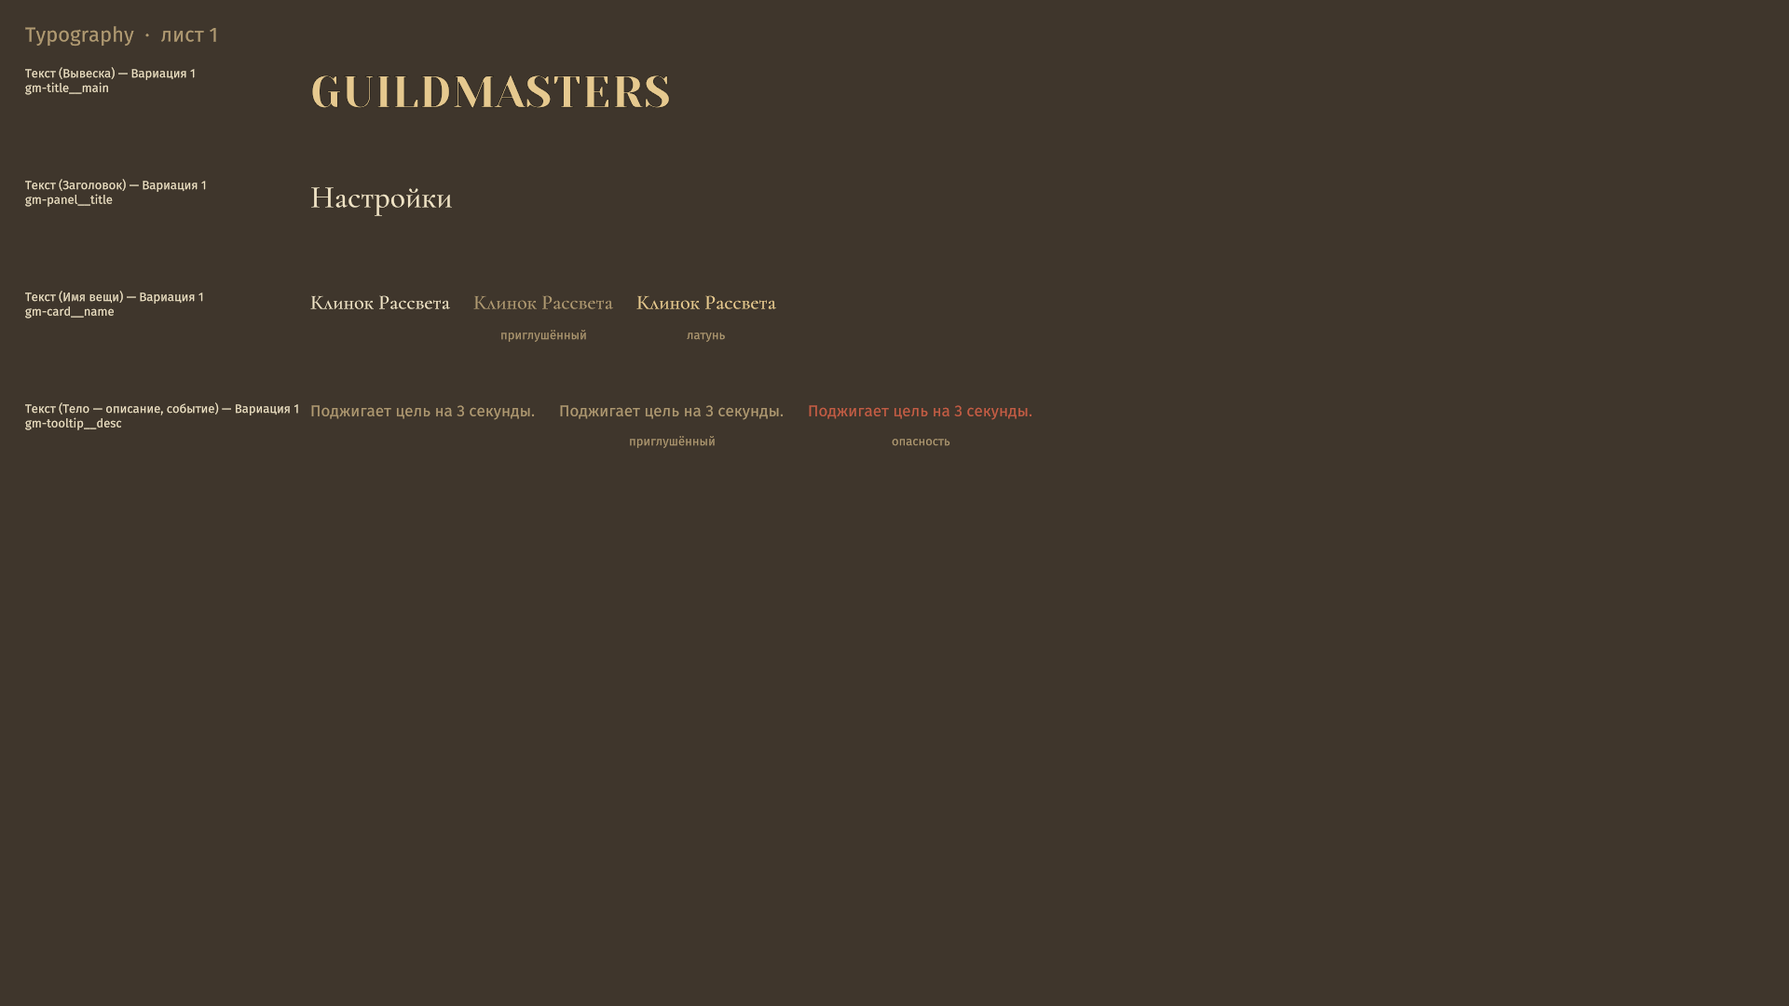
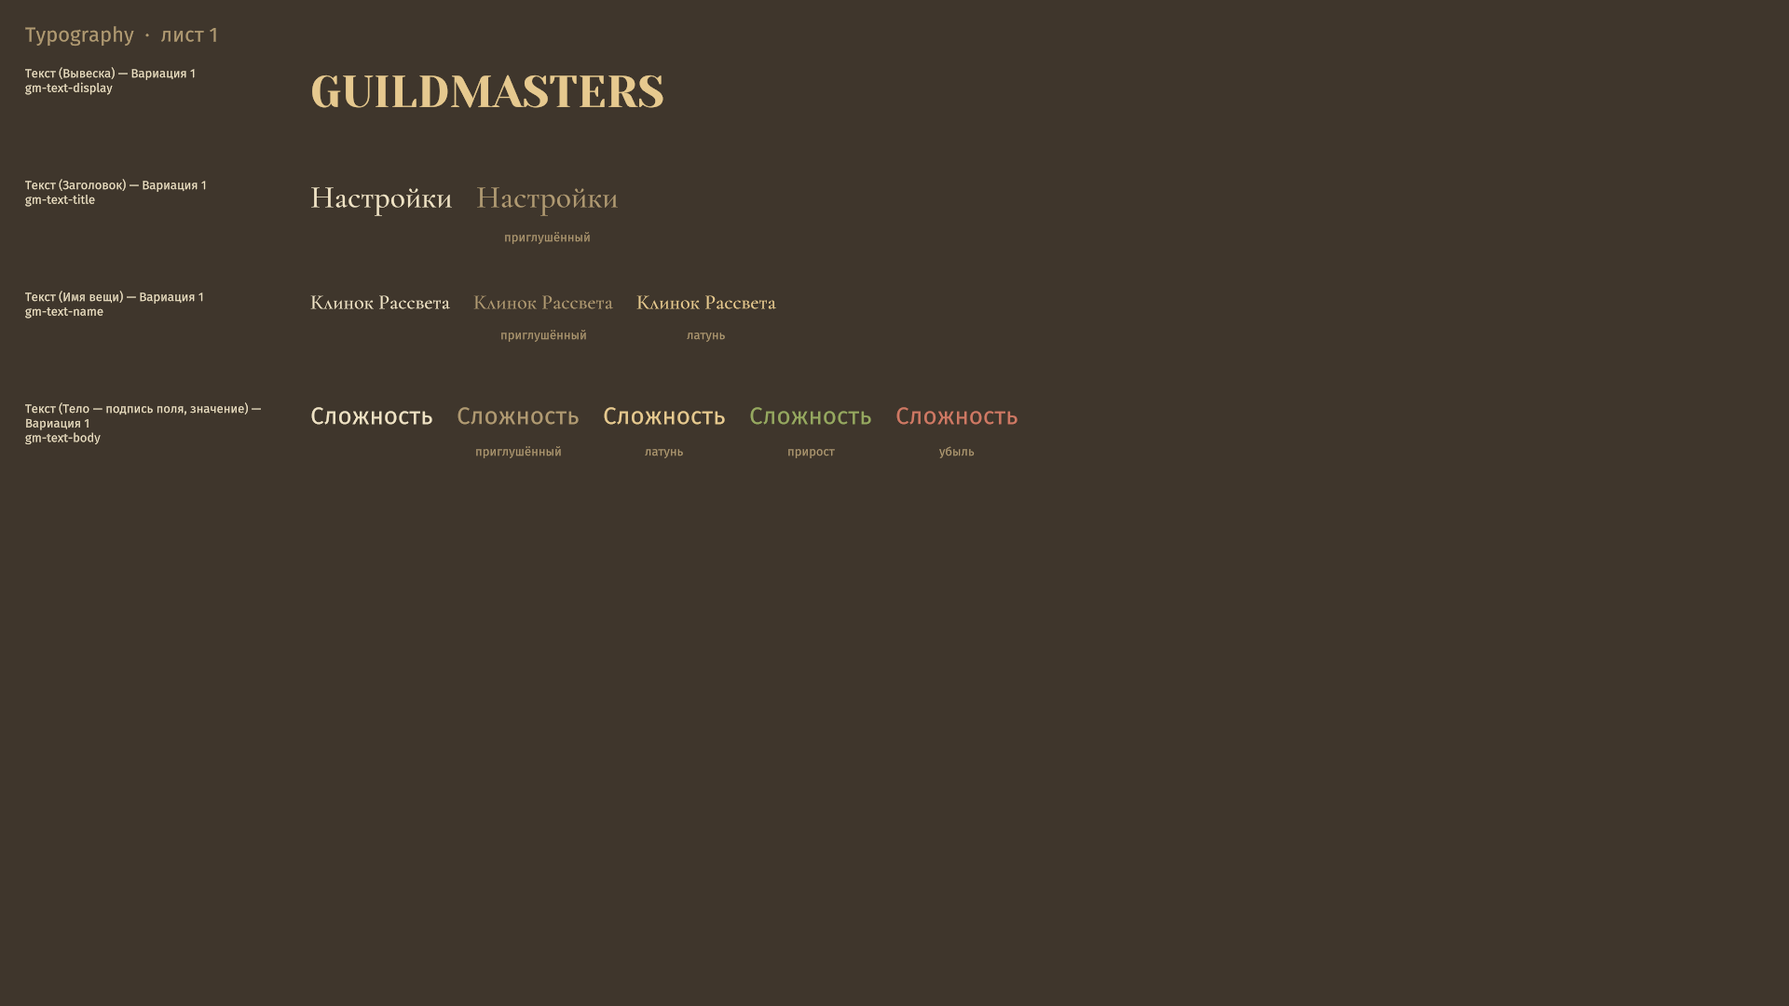
refactor(ui): text roles become classes of their own, not one resident per role
Восемь ролей текста объявлены классами gm-text-*: display, title, name,
body, caption, note, label, code. Прежде реестр держал по одному ЖИТЕЛЮ на
роль (gm-card__name, gm-tooltip__desc, gm-stat__value), и витрина показывала
«такой текст бывает в подсказке» вместо «вот роль, бери её куда надо» — та же
подмена, что была у кнопок с «пунктом главного меню».

Перепись дерева: типографику задают 75 классов, и пять пар «кегль + цвет»
покрывают 42 из них (body+text — 11, sm+muted — 10, xxs+muted — 10,
sm+text — 6, xs+muted — 5).

Роль несёт гарнитуру и кегль, но НЕ цвет: у мелких ролей бывают оба варианта
(gm-tooltip__meta тихая, gm-tooltip__line-value нет — при одном кегле), и
забери роль цвет себе, для яркого пришлось бы заводить метку «обычный».

Переведены компоненты: строки настроек, карточки, чипы, подсказки, статблок.
Из тринадцати кадров контактного листа изменились только два по делу —
остальные попиксельно те же.

Лестница кеглей: .gm-button--display держал 34px литералом, а это ровно
--gm-font-title; заменено без сдвига. 44px у вкладки — единственное число мимо
ступеней, оставлено намеренно и помечено в комментарии.

diff --git a/Assets/_Project/Scripts/UI/Components/UiComponentRegistry.cs b/Assets/_Project/Scripts/UI/Components/UiComponentRegistry.cs
@@ -294,26 +294,25 @@ namespace Guildmaster.UI.Components
             // МЕТКИ — ВТОРАЯ ОСЬ (решение Макса 06.08.2026). Красный текст, приглушённый, латунный
             // не являются отдельными ролями: они кладутся поверх роли вторым классом и меняют
             // только цвет. У каждой роли перечислены ЖИВЫЕ метки — те, что в игре встречаются.
-            New("Текст (Вывеска) — Вариация 1", "gm-title__main", UiComponentGroup.Typography,
-                UiElementState.None, null),
-            New("Текст (Заголовок) — Вариация 1", "gm-panel__title", UiComponentGroup.Typography,
-                UiElementState.None, null),
-            NewText("Текст (Имя вещи) — Вариация 1", "gm-card__name",
+            // РОЛЬ — ЭТО КЛАСС gm-text-*, а не её представитель на каком-то экране. До 06.08.2026
+            // здесь стояли gm-card__name, gm-tooltip__desc, gm-stat__value — то есть по одному
+            // ЖИТЕЛЮ на роль, и витрина показывала «вот такой текст бывает в подсказке» вместо
+            // «вот роль, бери её куда надо». Ровно та же подмена, что была у кнопок с «пунктом
+            // главного меню». Перепись дерева показала, что пять пар «кегль + цвет» покрывают 42
+            // класса из 75 — роли существовали, но были расписаны под каждый экран заново.
+            NewText("Текст (Вывеска) — Вариация 1", "gm-text-display", UiTextTone.None),
+            NewText("Текст (Заголовок) — Вариация 1", "gm-text-title", UiTextTone.Muted),
+            NewText("Текст (Имя вещи) — Вариация 1", "gm-text-name",
                 UiTextTone.Muted | UiTextTone.Brass),
-            NewText("Текст (Тело — описание, событие) — Вариация 1", "gm-tooltip__desc",
+            NewText("Текст (Тело — подпись поля, значение) — Вариация 1", "gm-text-body",
+                UiTextTone.Muted | UiTextTone.Brass | UiTextTone.Positive | UiTextTone.Negative),
+            NewText("Текст (Подпись — пояснение под полем) — Вариация 1", "gm-text-caption",
+                UiTextTone.Muted),
+            NewText("Текст (Описание — способность, событие) — Вариация 1", "gm-text-note",
                 UiTextTone.Muted | UiTextTone.Danger),
-            NewText("Текст (Подпись действия) — Вариация 1", "gm-plate-button__label",
-                UiTextTone.Muted | UiTextTone.Danger),
-            NewText("Текст (Число) — Вариация 1", "gm-stat__value",
-                UiTextTone.Brass | UiTextTone.Negative | UiTextTone.Positive),
-            // Роль «подпись» уже приглушена собственным цветом, поэтому метки Muted у неё нет:
-            // она бы ничего не изменила. Звалась gm-text-muted — имя описывало цвет, тогда как
-            // класс задаёт и кегль; переименована 06.08.2026, чтобы не стоять в одном дереве с
-            // меткой gm-text--muted через один дефис.
-            New("Текст (Подпись) — Вариация 1", "gm-text-caption", UiComponentGroup.Typography,
-                UiElementState.None, null),
-            New("Текст (Код, дев) — Вариация 1", "gm-console__keys", UiComponentGroup.Typography,
-                UiElementState.None, null),
+            NewText("Текст (Метка — мета, счётчик) — Вариация 1", "gm-text-label",
+                UiTextTone.Muted | UiTextTone.Brass),
+            NewText("Текст (Код, дев) — Вариация 1", "gm-text-code", UiTextTone.None),
 
             // СЛОВАРЬ ПОДСКАЗКИ — третья сущность рядом с ролью и меткой: цвет здесь кодирует
             // КАТЕГОРИЮ ПОНЯТИЯ, а не назначение текста и не его состояние. Шесть категорий на

diff --git a/Assets/_Project/Scripts/DevTools/UiSampleFactory.cs b/Assets/_Project/Scripts/DevTools/UiSampleFactory.cs
@@ -99,24 +99,20 @@ namespace Guildmaster.DevTools
             // почему и в игре. Написать здесь капс руками значило бы снова завести второго владельца
             // регистра — и витрина перестала бы ловить его пропажу.
             // Кириллица — везде, где она бывает в игре: гарнитуру она показывает честнее латиницы.
-            ["gm-title__main"]         = () => Text("GUILDMASTERS"),
-            ["gm-panel__title"]        = () => Text("Настройки"),
-            ["gm-card__name"]          = () => Text("Клинок Рассвета"),
+            // Образцы РОЛЕЙ. Каждый — просто строка с классом роли: роль на то и роль, что несёт
+            // весь свой вид сама и не зависит от предка. Прежние образцы брали представителей
+            // (gm-tooltip__desc и подобных), и часть из них приходилось собирать вместе с
+            // родителем, потому что кегль задавала кнопка, а гарнитуру — консоль.
+            ["gm-text-display"] = () => Text("GUILDMASTERS"),
+            ["gm-text-title"]   = () => Text("Настройки"),
+            ["gm-text-name"]    = () => Text("Клинок Рассвета"),
+            ["gm-text-body"]    = () => Text("Сложность"),
+            ["gm-text-caption"] = () => Text("Дом хранит прогресс забега"),
             // Коротко намеренно: с метками у роли до шести ячеек в ряду, и длинная фраза разносила
             // ряд на две строки — на кадре это читалось поломкой листа, а не образцом.
-            ["gm-tooltip__desc"]       = () => Text("Поджигает цель на 3 секунды."),
-            // ПОДПИСЬ ДЕЙСТВИЯ — НАСТОЯЩАЯ КНОПКА, а не строка в контейнере с классом `.gm-button`.
-            // Контейнер работал, пока роль отличалась кеглем и цветом, и сломался на регистре:
-            // custom-свойства USS в UI Toolkit, в отличие от CSS, ПО НАСЛЕДСТВУ НЕ ПЕРЕДАЮТСЯ, а
-            // применяет `--gm-text-case` сам PlateButton к своей подписи. Образец без контрола
-            // показывал «Начать забег» строчными там, где игра произносит прописными.
-            ["gm-plate-button__label"] = () => PlateBtn(),
-            // Код набирается В СВОЁМ КОНТЕКСТЕ: моноширинную гарнитуру консоли задаёт правило
-            // `.gm-console .unity-text-element`, то есть ПРЕДОК. Без обёртки образец показывал
-            // FiraSans вместо Fira Mono — враньё, которое поймал замер, а не глаз.
-            ["gm-stat__value"]         = () => Text("128"),
-            ["gm-text-caption"]        = () => Text("Дом хранит прогресс забега"),
-            ["gm-console__keys"]       = () => Within("gm-console", "gm-console__keys", "gm.spawn(\"goblin\", 3)"),
+            ["gm-text-note"]    = () => Text("Поджигает цель на 3 секунды."),
+            ["gm-text-label"]   = () => Text("урон в секунду"),
+            ["gm-text-code"]    = () => Text("gm.spawn(\"goblin\", 3)"),
             // Словарь: шесть категорий одной строкой — так видно, различимы ли они между собой.
             // Цвет живёт на модификаторе, поэтому образец блока показывает сразу все варианты.
             ["gm-kw"]                  = () => Keywords(),

diff --git a/Assets/_Project/Scripts/UI/Components/TooltipCard.cs b/Assets/_Project/Scripts/UI/Components/TooltipCard.cs
@@ -41,8 +41,11 @@ namespace Guildmaster.UI.Components
             _header = new VisualElement { pickingMode = PickingMode.Ignore };
             _header.AddToClassList("gm-tooltip__header");
             _title = new Label { pickingMode = PickingMode.Ignore };
+            _title.AddToClassList("gm-text-name");
             _title.AddToClassList("gm-tooltip__title");
             _meta = new Label { pickingMode = PickingMode.Ignore };
+            _meta.AddToClassList("gm-text-label");
+            _meta.AddToClassList("gm-text--muted");
             _meta.AddToClassList("gm-tooltip__meta");
             _header.Add(_title);
             _header.Add(_meta);
@@ -62,6 +65,8 @@ namespace Guildmaster.UI.Components
             Add(_lines);
 
             _desc = Line("gm-tooltip__desc");
+            _desc.AddToClassList("gm-text-note");
+            _desc.AddToClassList("gm-text--muted");
             _desc.style.whiteSpace = WhiteSpace.Normal;
             _desc.enableRichText = true; // разметка терминов: [Скрытность] со ссылкой
 
@@ -96,8 +101,10 @@ namespace Guildmaster.UI.Components
             row.AddToClassList("gm-tooltip__line");
 
             var caption = new Label(label ?? string.Empty) { pickingMode = PickingMode.Ignore };
-            caption.AddToClassList("gm-tooltip__line-label");
+            caption.AddToClassList("gm-text-label");
+            caption.AddToClassList("gm-text--muted");
             var amount = new Label(value ?? string.Empty) { pickingMode = PickingMode.Ignore };
+            amount.AddToClassList("gm-text-note");
             amount.AddToClassList("gm-tooltip__line-value");
 
             row.Add(caption);
@@ -119,7 +126,8 @@ namespace Guildmaster.UI.Components
             var name = new Label(term ?? string.Empty) { pickingMode = PickingMode.Ignore };
             name.AddToClassList("gm-tooltip__glossary-term");
             var text = new Label(definition ?? string.Empty) { pickingMode = PickingMode.Ignore };
-            text.AddToClassList("gm-tooltip__glossary-text");
+            text.AddToClassList("gm-text-label");
+            text.AddToClassList("gm-text--muted");
             text.style.whiteSpace = WhiteSpace.Normal;
 
             row.Add(name);

diff --git a/Assets/_Project/Scripts/UI/LoadoutInventoryView.cs b/Assets/_Project/Scripts/UI/LoadoutInventoryView.cs
@@ -513,9 +513,14 @@ namespace Guildmaster.UI
         {
             var cell = new VisualElement { focusable = true };
             cell.AddToClassList("gm-stat");
+            // Подпись — роль «метка» приглушённой меткой. Свой класс ей всё же нужен, и не ради
+            // вида: `.gm-stat:disabled .gm-stat__label` адресует её в выключенном состоянии строки.
             var l = new Label(label) { pickingMode = PickingMode.Ignore };
+            l.AddToClassList("gm-text-label");
+            l.AddToClassList("gm-text--muted");
             l.AddToClassList("gm-stat__label");
             var v = new Label(value) { pickingMode = PickingMode.Ignore };
+            v.AddToClassList("gm-text-note");
             v.AddToClassList("gm-stat__value");
             cell.Add(l);
             cell.Add(v);

diff --git a/Assets/_Project/Scripts/UI/Components/VesselCard.cs b/Assets/_Project/Scripts/UI/Components/VesselCard.cs
@@ -40,6 +40,7 @@ namespace Guildmaster.UI.Components
             AddToClassList("gm-hub-vessel");
 
             _name = new Label { name = "vessel-name" };
+            _name.AddToClassList("gm-text-name");
             _name.AddToClassList("gm-hub-vessel__name");
             Add(_name);
 
@@ -49,6 +50,8 @@ namespace Guildmaster.UI.Components
             _relicIcon.AddToClassList("gm-hub-vessel__relic-icon");
             row.Add(_relicIcon);
             _relicName = new Label { name = "relic-name" };
+            _relicName.AddToClassList("gm-text-caption");
+            _relicName.AddToClassList("gm-text--muted");
             _relicName.AddToClassList("gm-hub-vessel__relic-name");
             row.Add(_relicName);
             Add(row);

diff --git a/Assets/_Project/Scripts/UI/Components/SliderRow.cs b/Assets/_Project/Scripts/UI/Components/SliderRow.cs
@@ -45,6 +45,7 @@ namespace Guildmaster.UI.Components
             AddToClassList("gm-slider-row");
 
             _label = new Label { name = "label" };
+            _label.AddToClassList("gm-text-body");
             _label.AddToClassList("gm-slider-row__label");
             Add(_label);
 
@@ -53,6 +54,7 @@ namespace Guildmaster.UI.Components
             Add(_slider);
 
             _value = new Label("0%") { name = "value" };
+            _value.AddToClassList("gm-text-body");
             _value.AddToClassList("gm-slider-row__value");
             Add(_value);
 

diff --git a/Assets/_Project/Scripts/UI/Components/Chip.cs b/Assets/_Project/Scripts/UI/Components/Chip.cs
@@ -54,6 +54,8 @@ namespace Guildmaster.UI.Components
             _icon = new VisualElement { name = "icon", pickingMode = PickingMode.Ignore };
             _icon.AddToClassList("gm-chip__icon");
             _label = new Label { pickingMode = PickingMode.Ignore };
+            _label.AddToClassList("gm-text-note");
+            _label.AddToClassList("gm-text--muted");
             _label.AddToClassList("gm-chip__label");
             Add(_icon);
             Add(_label);

diff --git a/Assets/_Project/Scripts/UI/ShopScreenView.cs b/Assets/_Project/Scripts/UI/ShopScreenView.cs
@@ -78,6 +78,7 @@ namespace Guildmaster.UI
                     card.Add(sprite);
 
                     var name = new Label(item.Relic != null ? nameOf(item.Relic) : "—");
+                    name.AddToClassList("gm-text-name");
                     name.AddToClassList("gm-card__name");
                     card.Add(name);
 

diff --git a/Assets/_Project/Scripts/UI/Components/RelicCard.cs b/Assets/_Project/Scripts/UI/Components/RelicCard.cs
@@ -51,6 +51,7 @@ namespace Guildmaster.UI.Components
             _sprite.AddToClassList("gm-card__sprite");
             Add(_sprite);
             _name = new Label { name = "name" };
+            _name.AddToClassList("gm-text-name");
             _name.AddToClassList("gm-card__name");
             Add(_name);
         }

diff --git a/Assets/_Project/Scripts/UI/Components/SelectRow.cs b/Assets/_Project/Scripts/UI/Components/SelectRow.cs
@@ -53,6 +53,7 @@ namespace Guildmaster.UI.Components
             AddToClassList("gm-select-row");
 
             _label = new Label { name = "label" };
+            _label.AddToClassList("gm-text-body");
             _label.AddToClassList("gm-select-row__label");
             Add(_label);
 

diff --git a/Assets/_Project/Scripts/UI/Components/ToggleRow.cs b/Assets/_Project/Scripts/UI/Components/ToggleRow.cs
@@ -39,6 +39,7 @@ namespace Guildmaster.UI.Components
             AddToClassList("gm-toggle-row");
 
             _label = new Label { name = "label" };
+            _label.AddToClassList("gm-text-body");
             _label.AddToClassList("gm-toggle-row__label");
             Add(_label);
 

diff --git a/Assets/_Project/Scripts/UI/MenuRouter.cs b/Assets/_Project/Scripts/UI/MenuRouter.cs
@@ -1209,6 +1209,7 @@ namespace Guildmaster.UI
                 card.Add(sprite);
 
                 var name = new Label(_loadoutVm.Name(relic));
+                name.AddToClassList("gm-text-name");
                 name.AddToClassList("gm-card__name");
                 card.Add(name);
 
